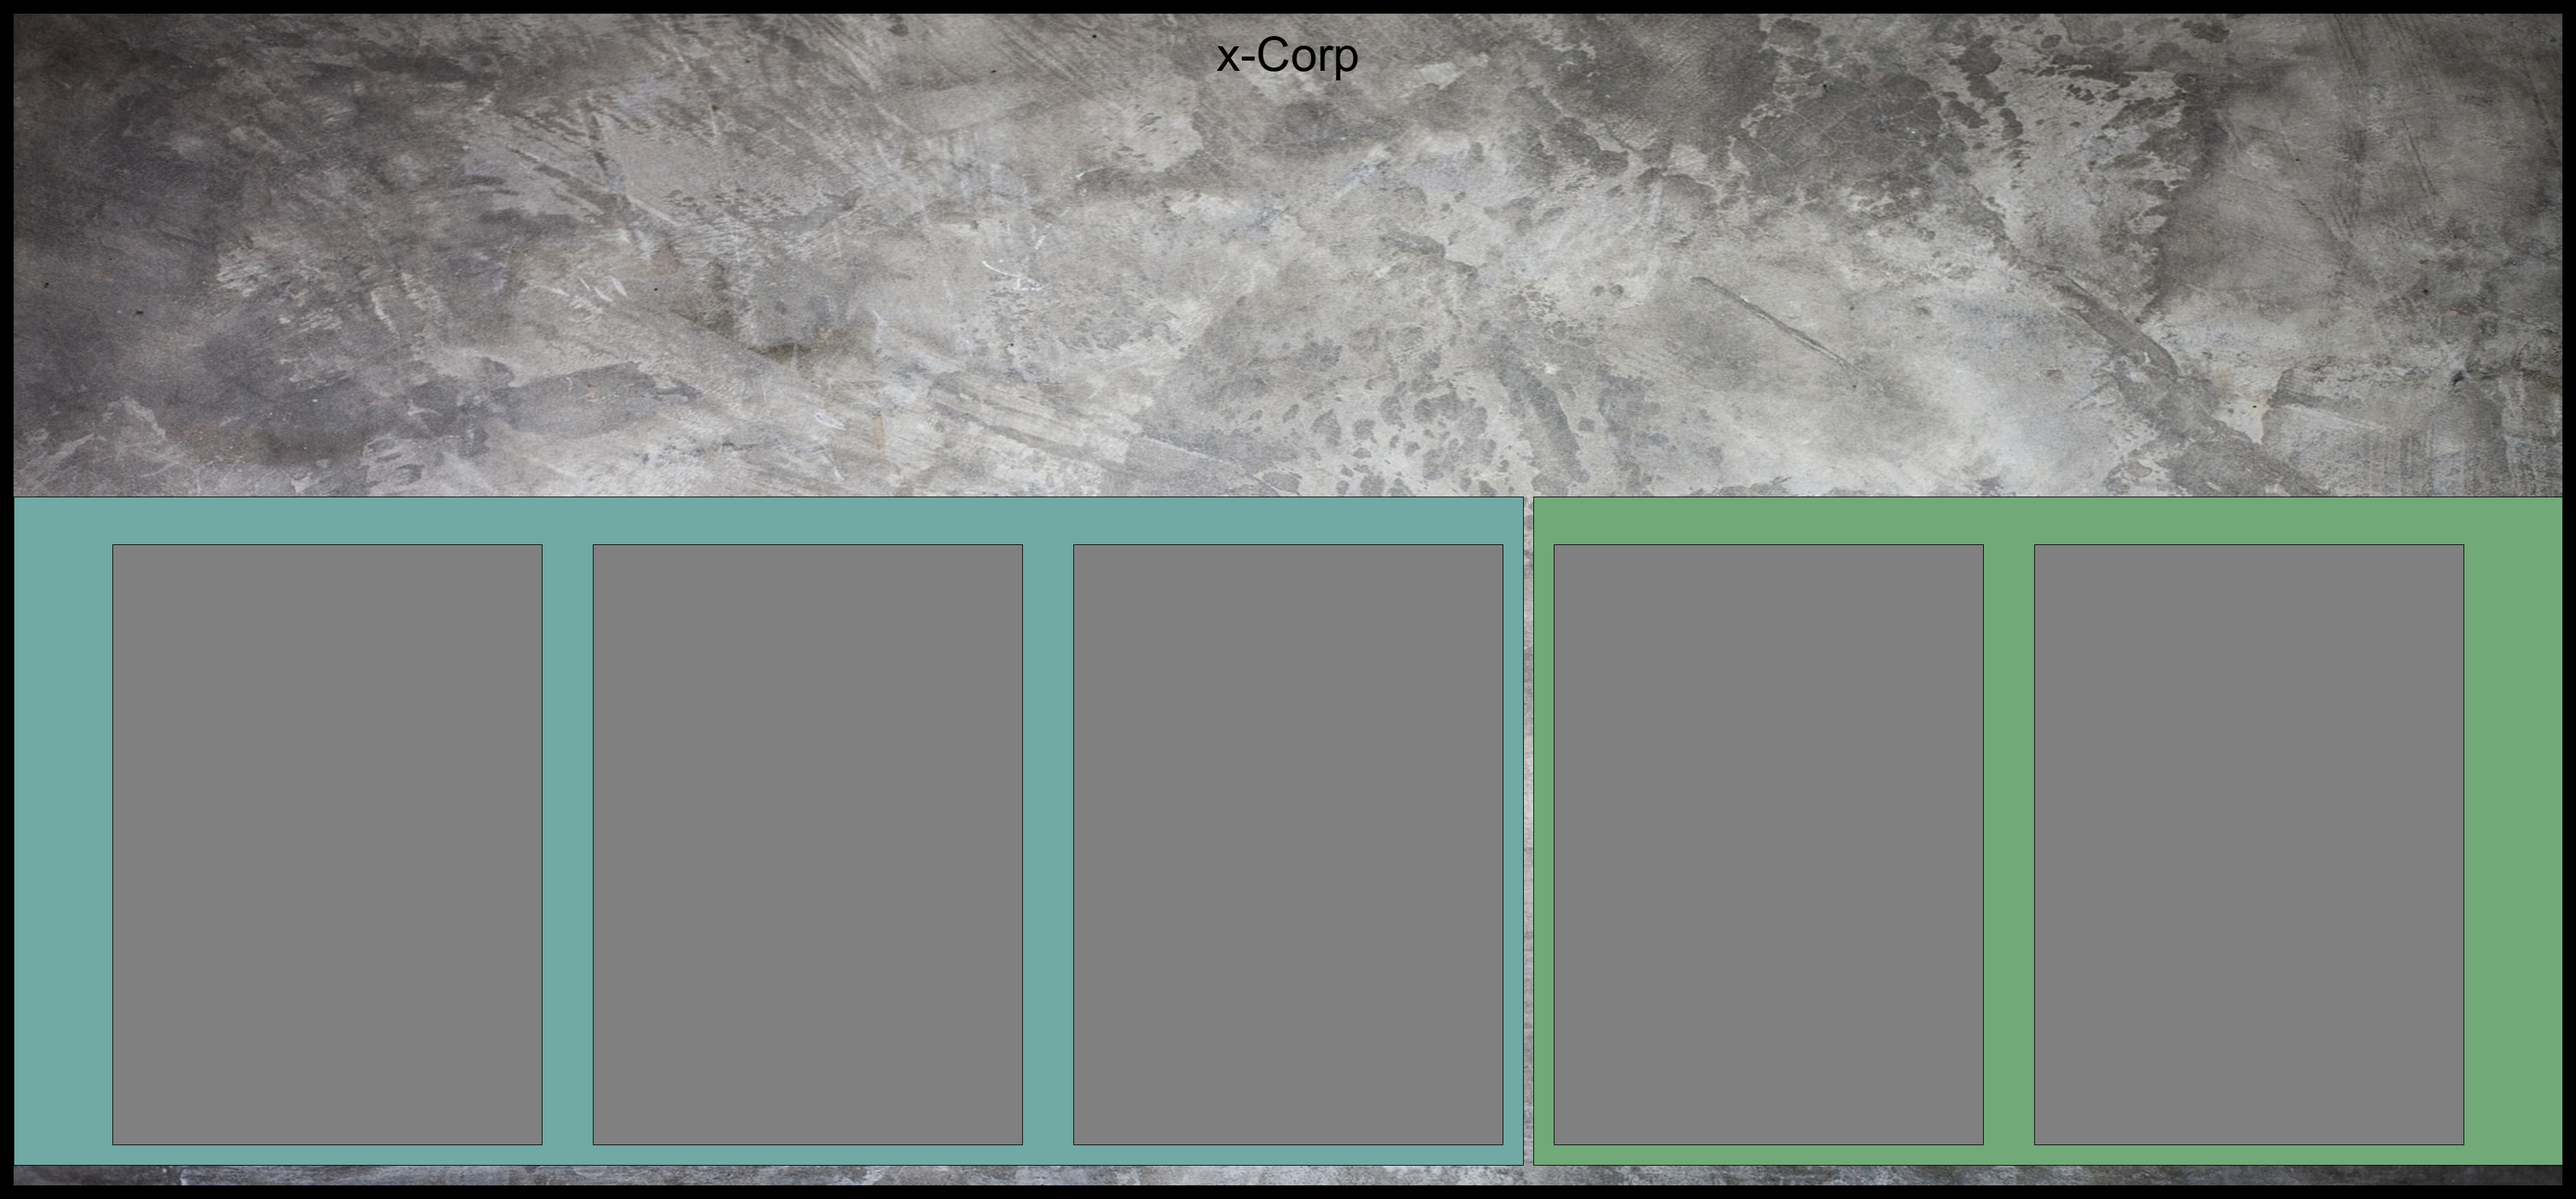
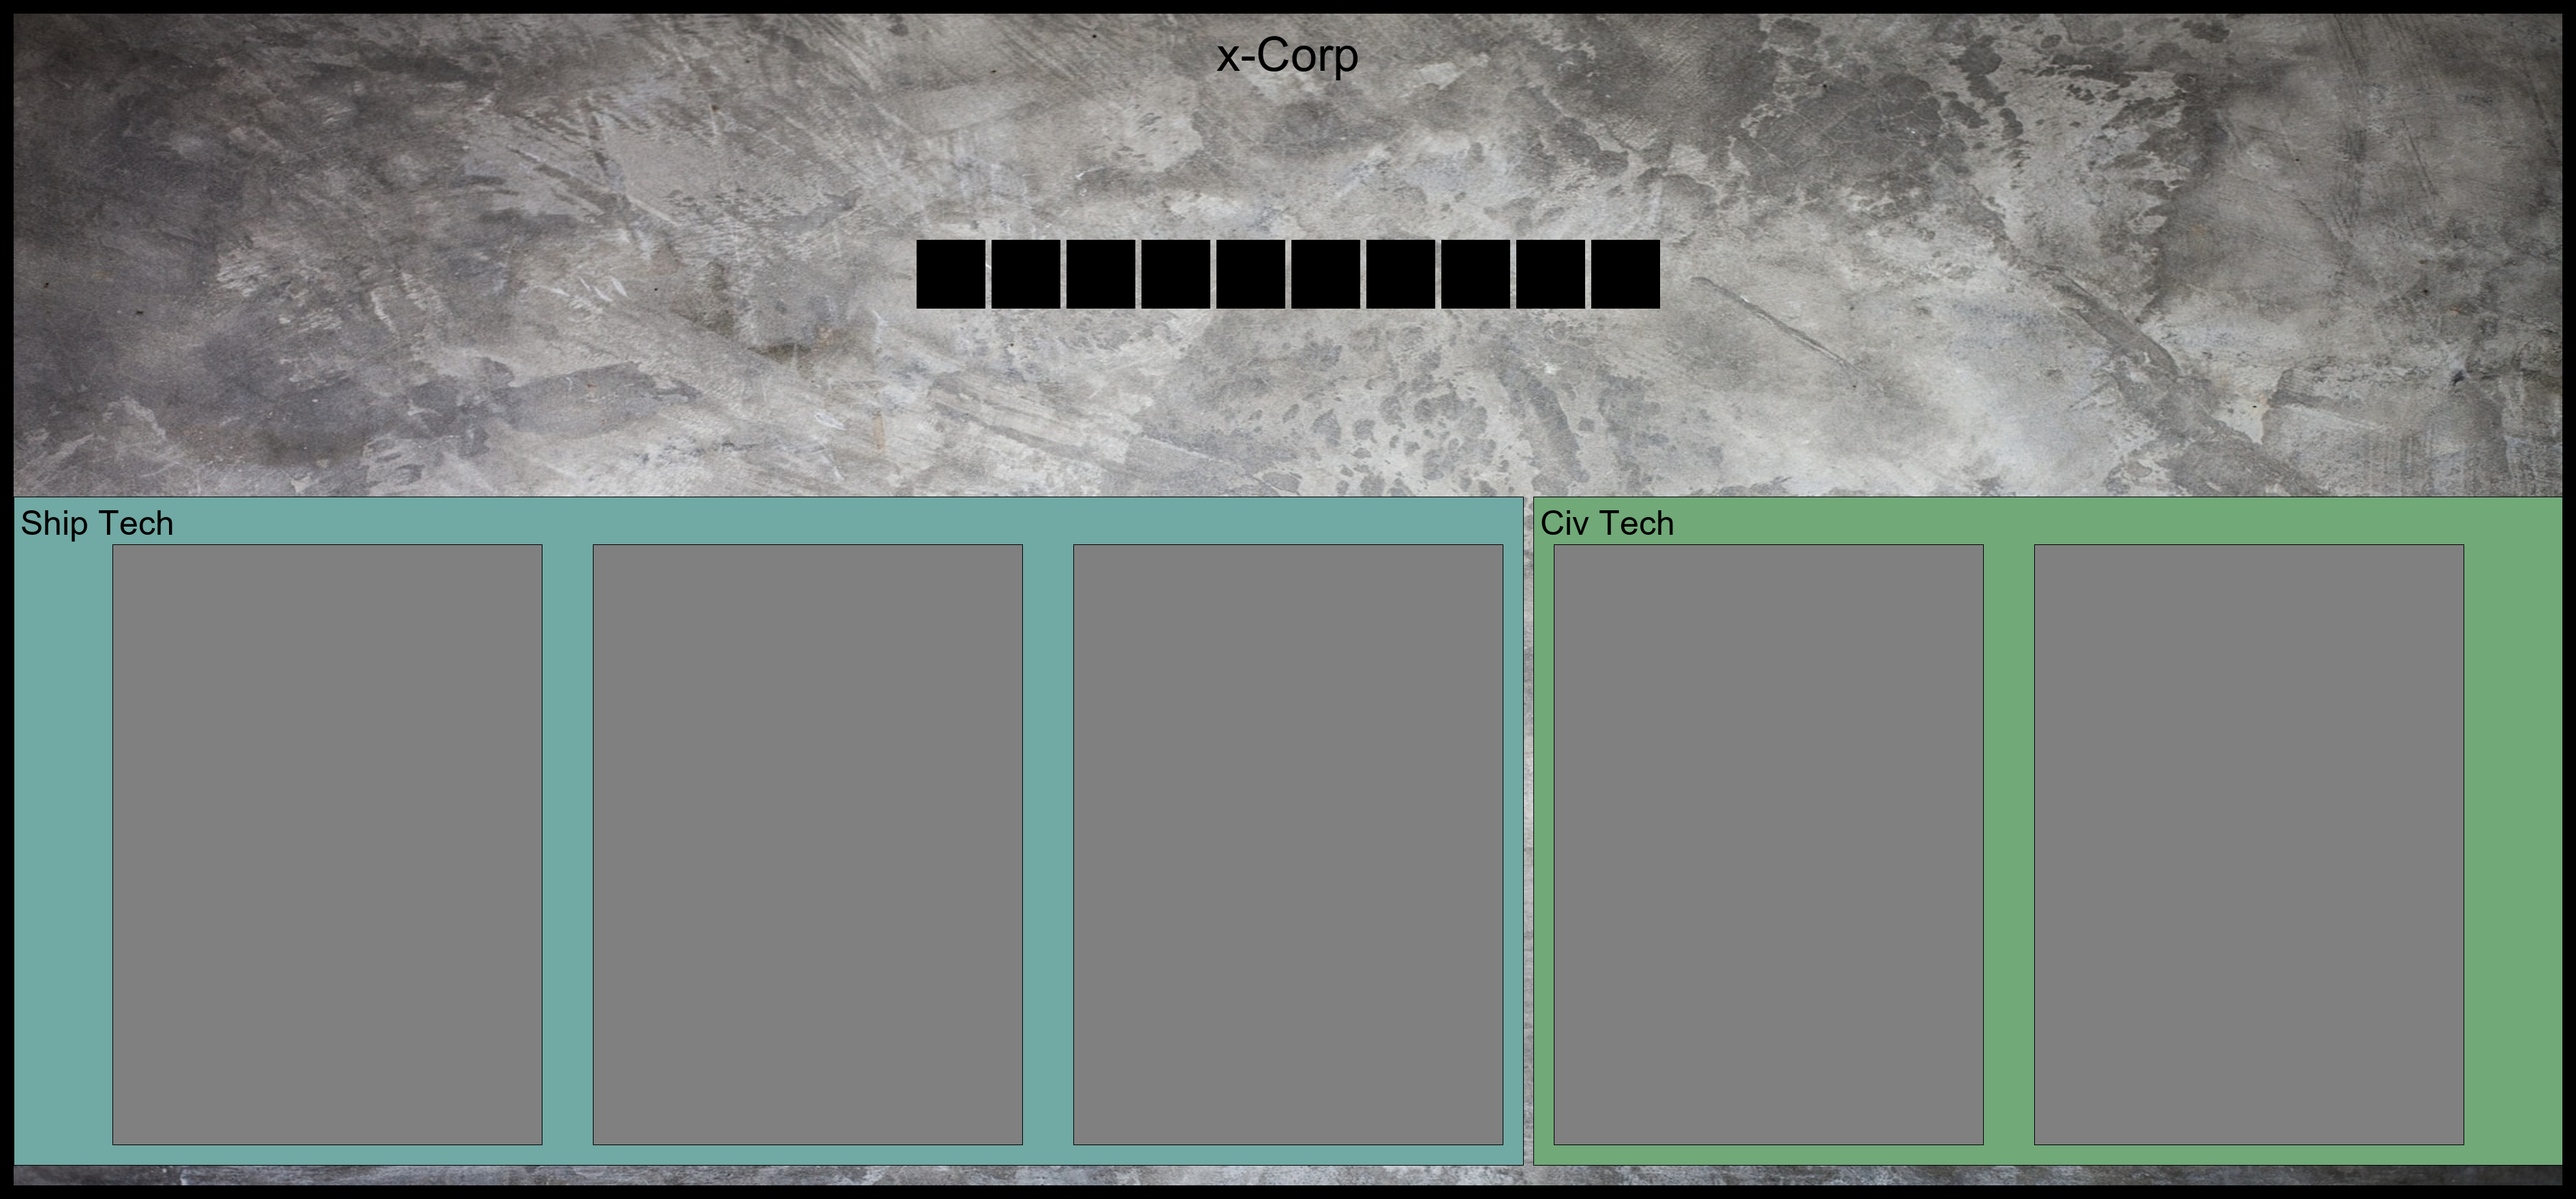
added fuel slots to player mat

Changed region(s): [[0.3434, 0.1875, 0.6556, 0.2812], [0.0, 0.4062, 0.0624, 0.4375]]

diff --git a/scripts/player.py b/scripts/player.py
@@ -55,41 +55,62 @@ for i in factions['factions']:
     h = u + b
     draw.text(((new_card.width-w)/2, 40), faction_name, font=font, fill='black')
 
+# Tech Cards
+    n_ship = 3
+    n_civ = 2
+    n_cards = n_ship + n_civ
+    spacing = 75
+
     # Ship outer
     x_pos = bord_size
-    xx_pos =(card_size[0]/2) - (((5 * n_size[0] ) + (4*75))/2) + ((3 * n_size[0] ) + (2*75)) + 30
+    xx_pos =(card_size[0]/2) - (((n_cards * n_size[0] ) + ((n_cards - 1)*spacing))/2) + ((n_ship * n_size[0] ) + (2 * spacing)) + 30
     y_pos = (card_size[1] / 2.2 ) - 70
     yy_pos = y_pos + n_size[1]  + 100
     draw.rectangle((x_pos, y_pos , xx_pos, yy_pos), fill='#71A9A4', outline=(0, 0, 0))
 
     # Ship text
+    font = ImageFont.truetype("arial.ttf", 50)
     x_pos = bord_size + 10
     y_pos = (card_size[1] / 2.2 ) - 60
-    draw.text(((new_card.width-w)/2, 40), 'Ship Tech', font=font, fill='black')
-
+    draw.text((x_pos, y_pos), 'Ship Tech', font=font, fill='black')
 
     # Civ outer
-    x_pos = (card_size[0]/2) - (((5 * n_size[0] ) + (4*75))/2) + ((3 * n_size[0] ) + (2*75)) + 45
+    x_pos = (card_size[0]/2) - (((n_cards * n_size[0] ) + ((n_cards - 1) * spacing))/2) + ((n_ship * n_size[0] ) + (2*spacing)) + 45
     xx_pos =card_size[0] - bord_size
     y_pos = (card_size[1] / 2.2 ) - 70
     yy_pos = y_pos + n_size[1]  + 100
     draw.rectangle((x_pos, y_pos , xx_pos, yy_pos), fill='#71A979', outline=(0, 0, 0))    
 
     # Civ text
-    x_pos = (card_size[0]/2) - (((5 * n_size[0] ) + (4*75))/2) + ((3 * n_size[0] ) + (2*75)) + 55
+    font = ImageFont.truetype("arial.ttf", 50)
+    x_pos = (card_size[0]/2) - (((n_cards * n_size[0] ) + ((n_cards - 1) * spacing))/2) + ((n_ship * n_size[0] ) + (2*spacing)) + 55
     y_pos = (card_size[1] / 2.2 ) - 60
-    draw.text(((new_card.width-w)/2, 40), 'Civ Tech', font=font, fill='black')
+    draw.text((x_pos, y_pos), 'Civ Tech', font=font, fill='black')
 
     # Cards Slots
-    x_pos = (card_size[0]/2) - (((5 * n_size[0] ) + (4*75))/2)
-    for ii in range(5):
+    n_cards = 5
+    x_pos = (card_size[0]/2) - (((n_cards * n_size[0] ) + ((n_cards - 1) * spacing))/2)
+    for ii in range(n_cards):
         cur = ii + 1
         xx_pos = x_pos + n_size[0]
         y_pos = (card_size[1] / 2.2 )
         yy_pos = y_pos + n_size[1]
         draw.rectangle((x_pos, y_pos , xx_pos, yy_pos), fill='gray', outline=(0, 0, 0))
-        x_pos = xx_pos + 75
+        x_pos = xx_pos + spacing
 
+
+    # Fuel Slots
+    fuel_size = 100
+    fuel_slots = 10
+    spacing = 10
+    x_pos = (card_size[0]/2) - (((fuel_slots * fuel_size ) + ((fuel_slots - 1) * spacing))/2)
+    for ii in range(fuel_slots):
+        cur = ii + 1
+        xx_pos = x_pos + fuel_size
+        y_pos = (card_size[1] / 5)
+        yy_pos = y_pos + fuel_size
+        draw.rectangle((x_pos, y_pos , xx_pos, yy_pos), fill='black', outline=(0, 0, 0))
+        x_pos = xx_pos + spacing   
 
     card_name= 'player_' + str(i['id']) + '.png'
     new_card.save(os.path.join(save_folder, card_name))

diff --git a/scripts/planet_json.py b/scripts/planet_json.py
@@ -39,8 +39,7 @@ for i in range(8):
                             'credits' : '2',
                             'food': '0',
                             'water': '1',
-                            'ore': '0',
-                            'fuel': '1'
+                            'ore': '1'
                         },
             'description' : 'Random text'
         }
